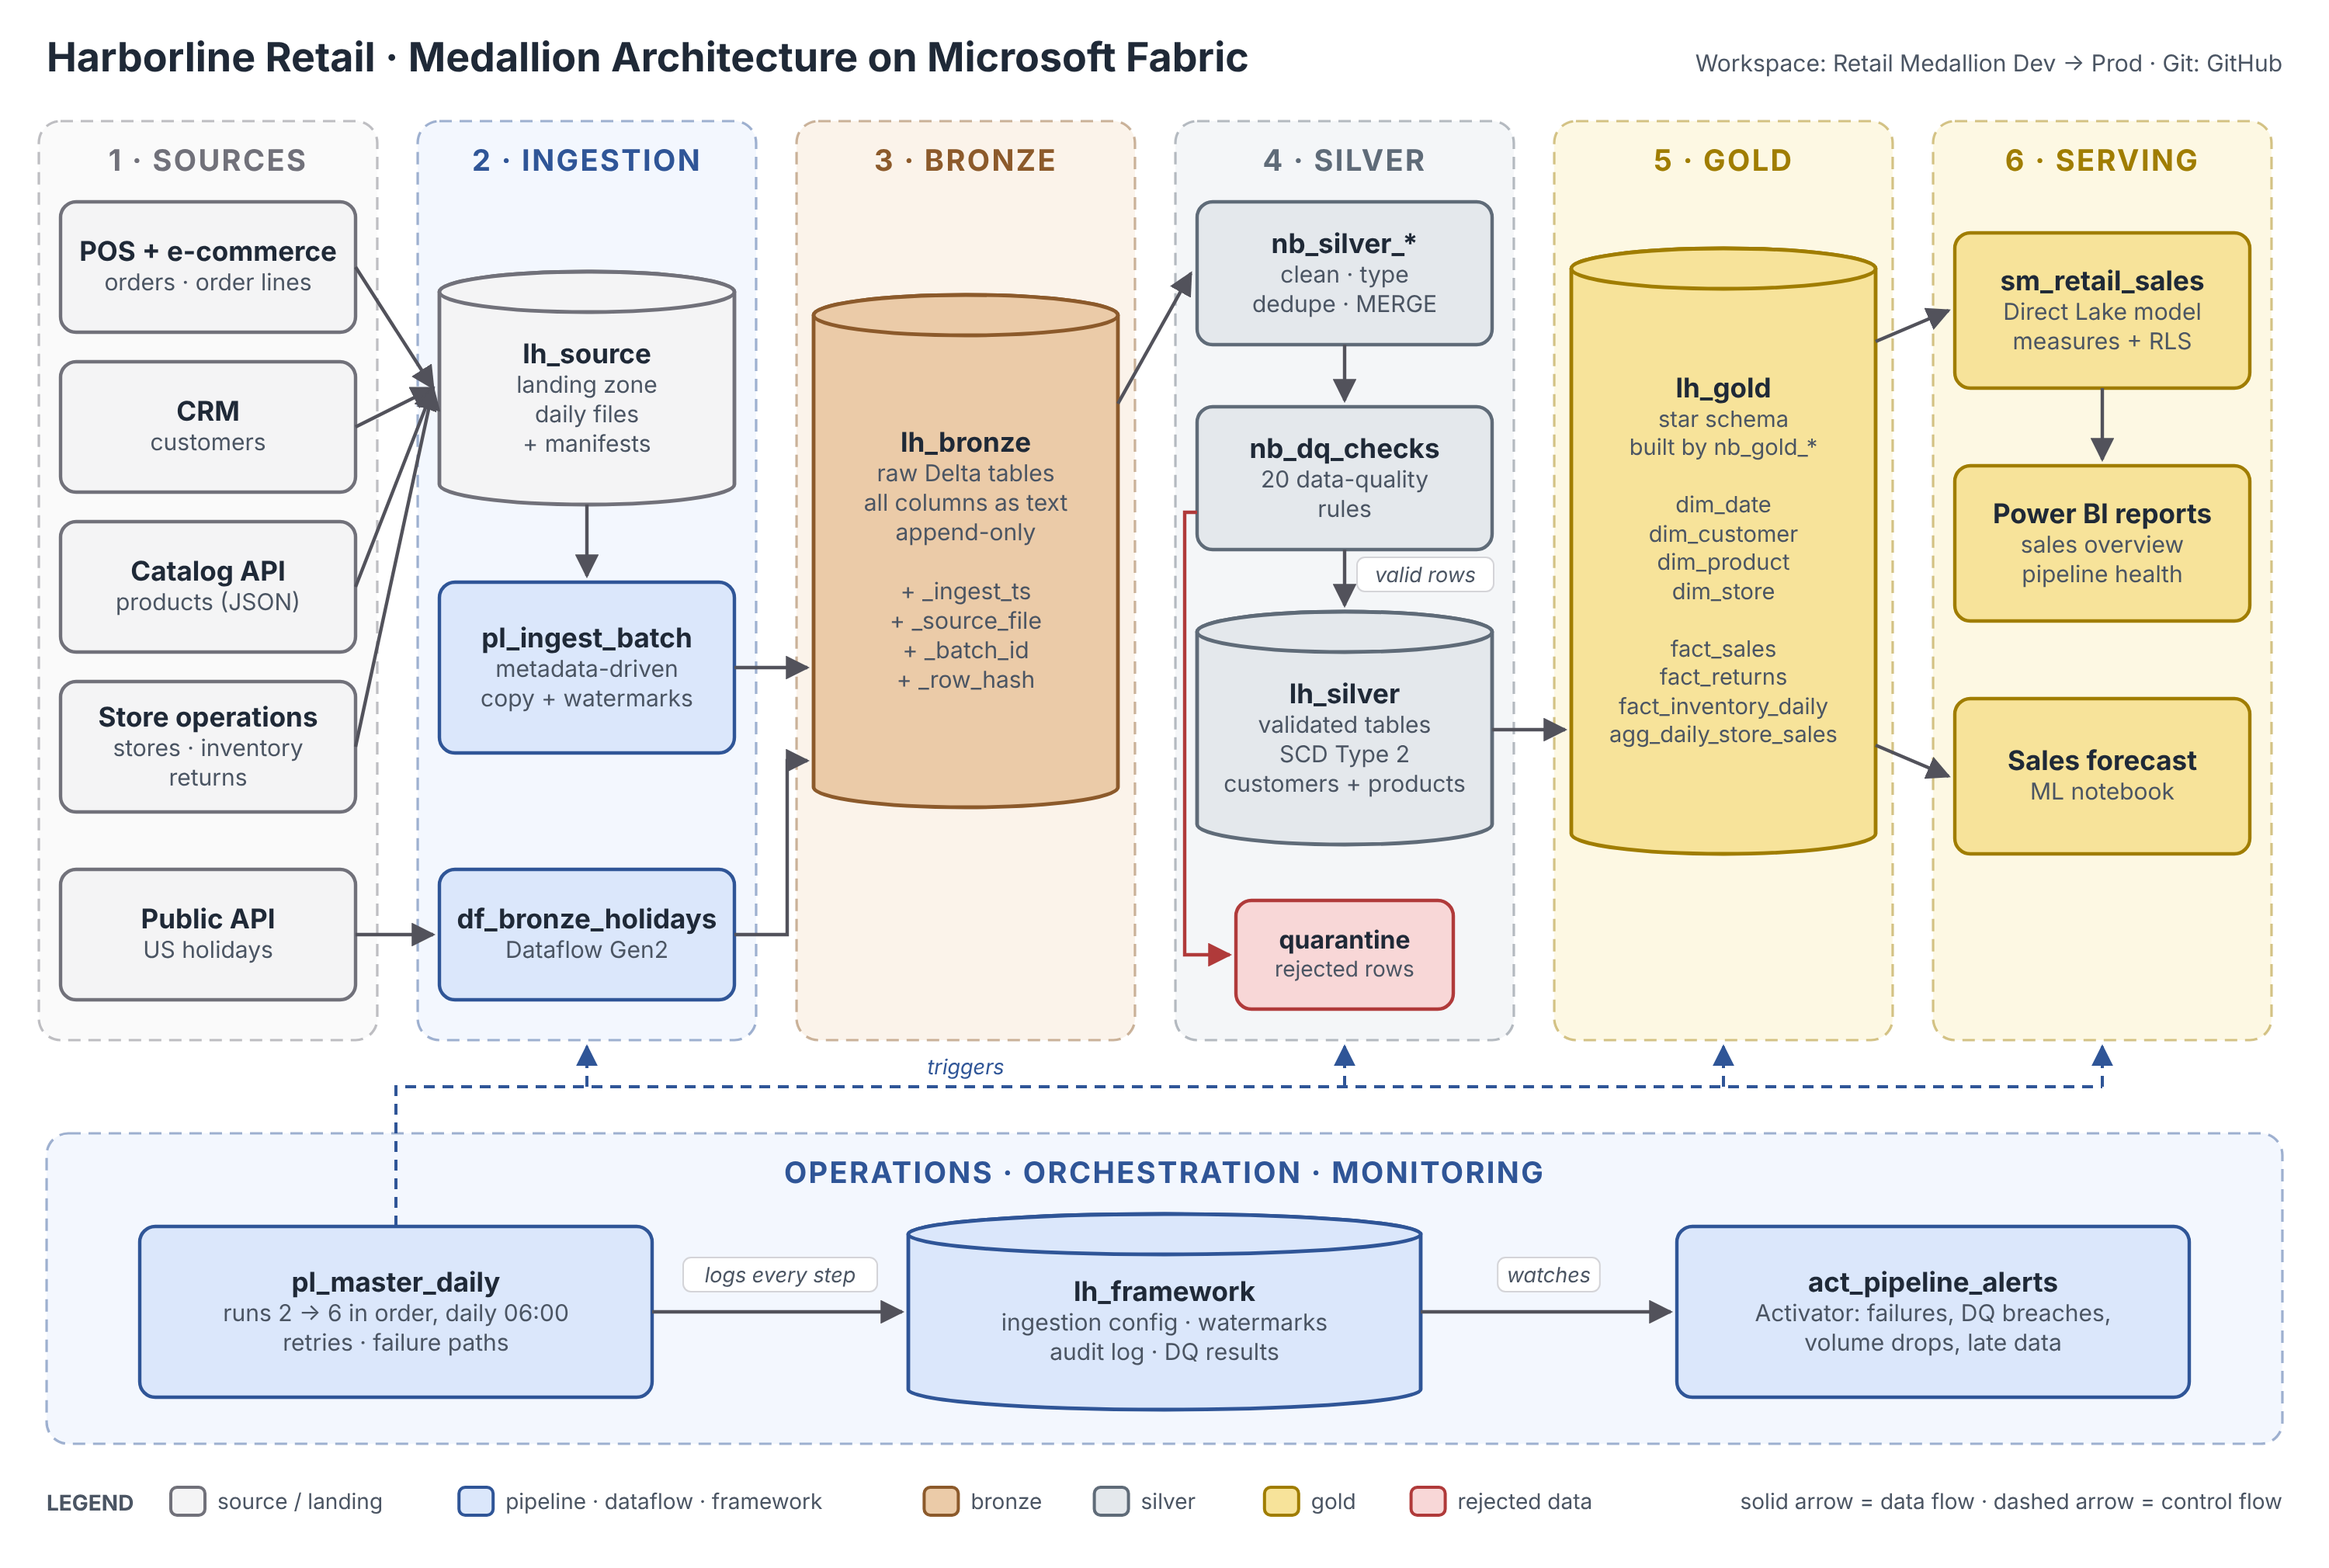
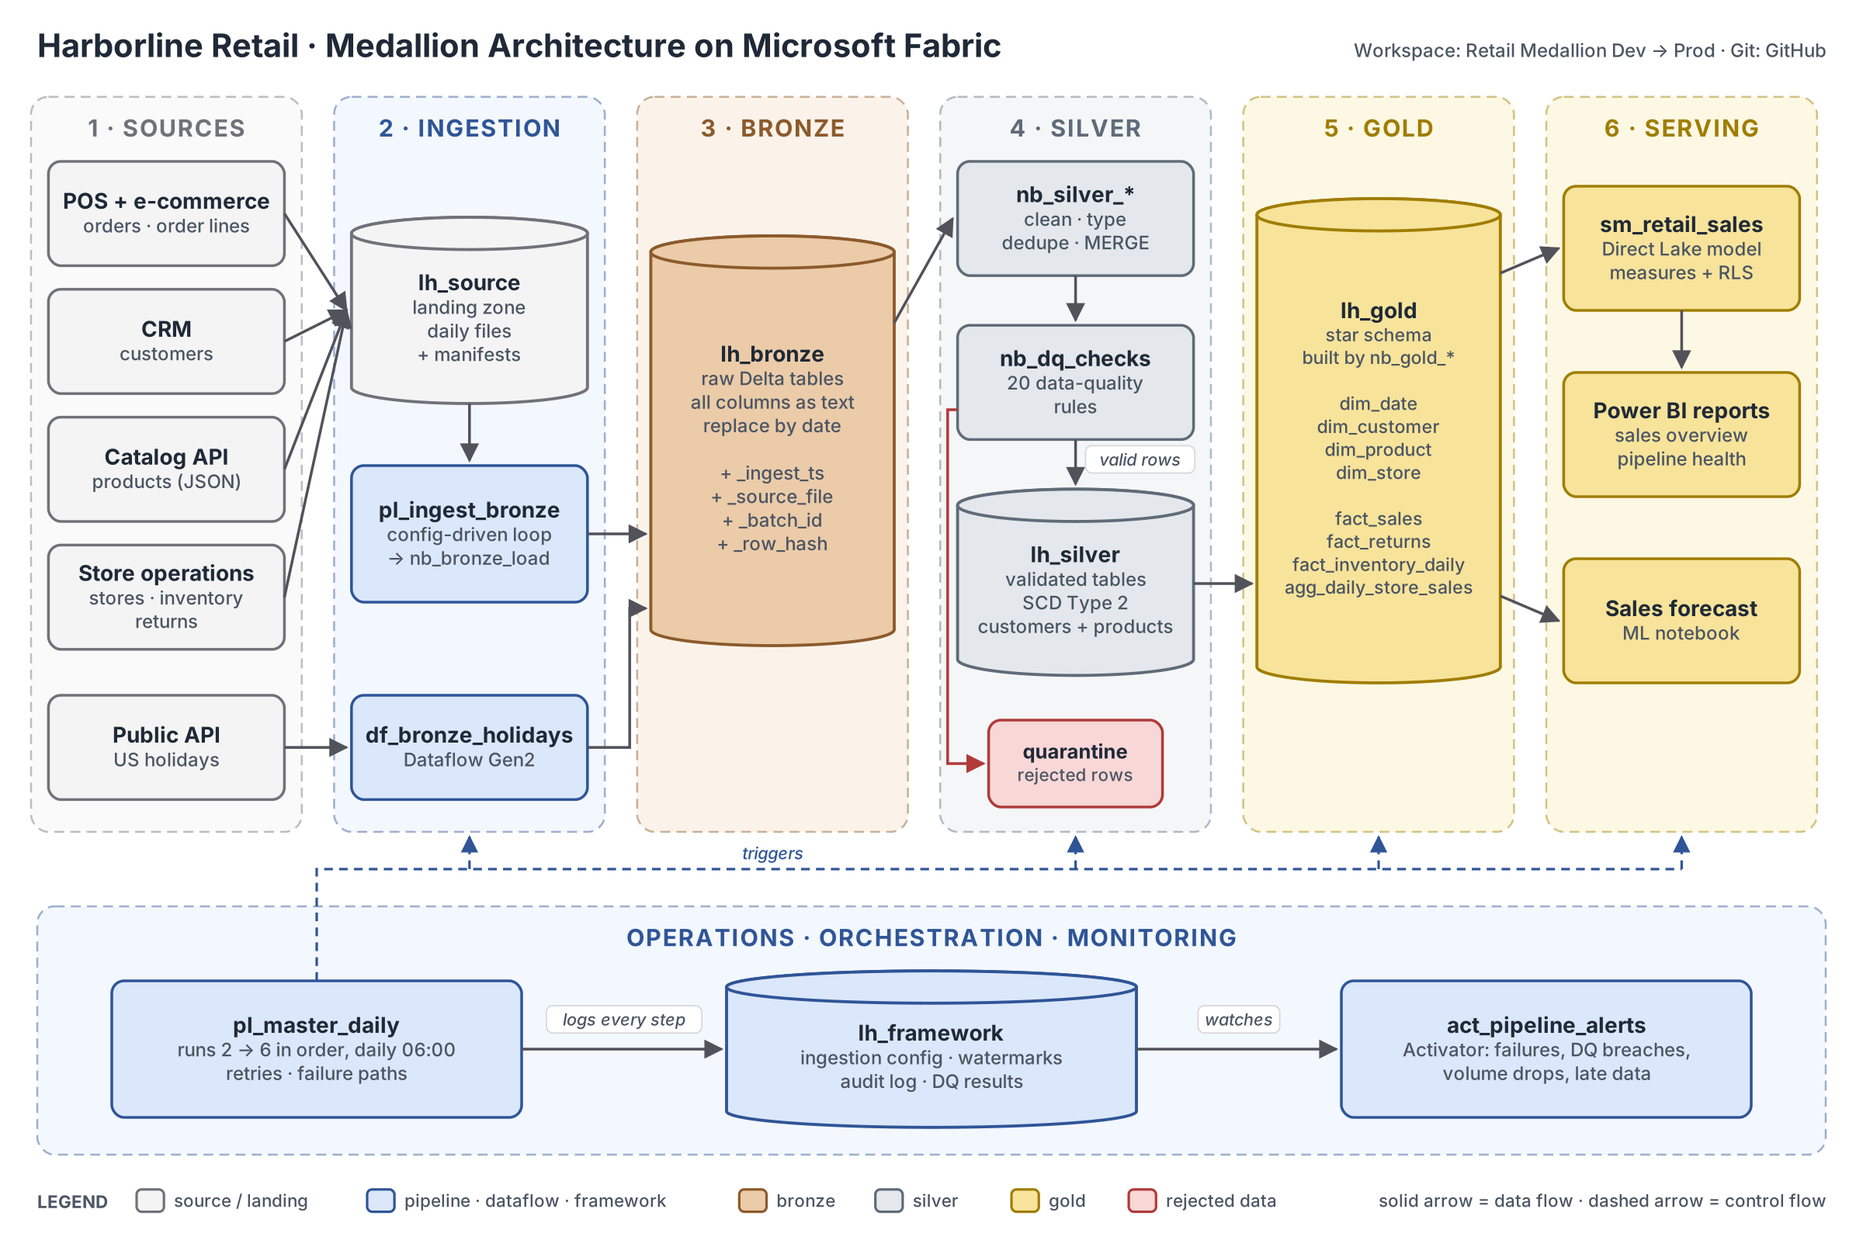
Update architecture diagram to match built Bronze ingestion

diff --git a/docs/images/make_architecture_svg.py b/docs/images/make_architecture_svg.py
@@ -101,7 +101,7 @@ box(sx, src_y[4], bw, bh, "src", ["Public API", "US holidays"])
 # 2 · ingestion
 ix = cols[1] + (CW - bw) / 2
 box(ix, 175, bw, 150, "src", ["lh_source", "landing zone", "daily files", "+ manifests"], shape="cyl")
-box(ix, 375, bw, 110, "ops", ["pl_ingest_batch", "metadata-driven", "copy + watermarks"])
+box(ix, 375, bw, 110, "ops", ["pl_ingest_bronze", "config-driven loop", "→ nb_bronze_load"])
 box(ix, 560, bw, bh, "ops", ["df_bronze_holidays", "Dataflow Gen2"])
 for y in src_y[:4]:
     arrow([(sx + bw, y + bh / 2), (ix - 4, 250)])
@@ -111,7 +111,7 @@ arrow([(sx + bw, src_y[4] + bh / 2), (ix - 4, src_y[4] + bh / 2)])
 # 3 · bronze
 cw_ = 196
 bx = cols[2] + (CW - cw_) / 2
-box(bx, 190, cw_, 330, "bronze", ["lh_bronze", "raw Delta tables", "all columns as text", "append-only", "",
+box(bx, 190, cw_, 330, "bronze", ["lh_bronze", "raw Delta tables", "all columns as text", "replace by date", "",
                                   "+ _ingest_ts", "+ _source_file", "+ _batch_id", "+ _row_hash"], shape="cyl")
 arrow([(ix + bw, 430), (bx - 4, 430)])
 arrow([(ix + bw, 602), (cols[2] - 6, 602), (cols[2] - 6, 490), (bx - 4, 490)])
